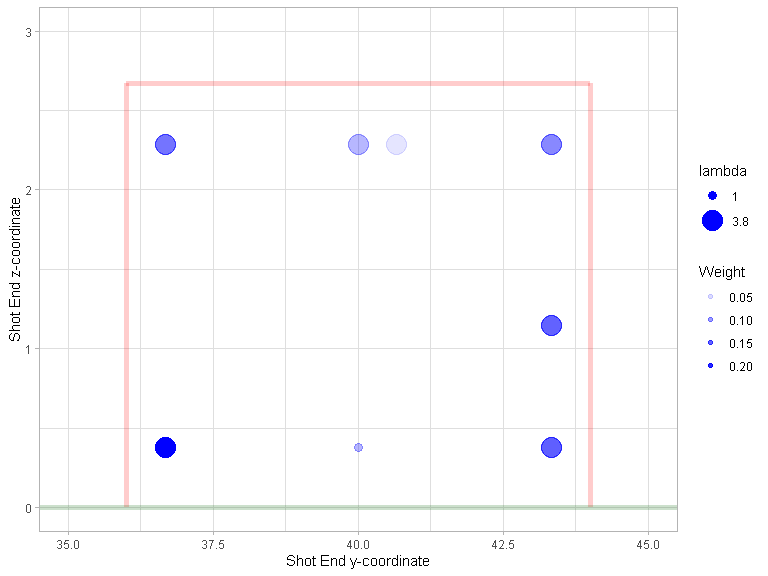
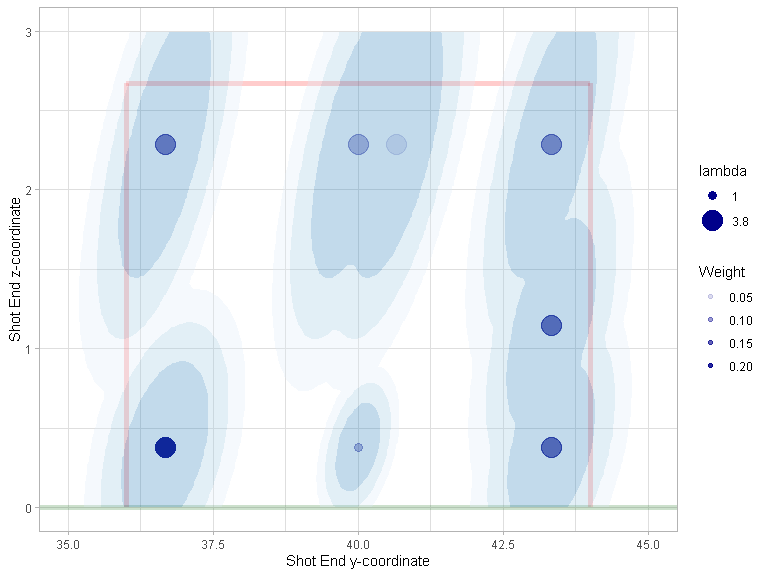
Clean up figure 3

diff --git a/reproduction/miss_it_like_messi.md b/reproduction/miss_it_like_messi.md
@@ -291,6 +291,23 @@ Hunter_et_al_2018_shots |>
 ``` r
 mixture_model_components <- get_mixture_model_components()
 
+yy = seq(34, 46, length.out = 100)
+zz = seq(0, 4, length.out = 100)
+yz = expand.grid(y = yy, z = zz)
+
+# Get probability density for each shot/component
+pdfs <- get_shot_probability_densities(
+  mixture_model_components[selected_components,],
+  as.matrix(yz)
+)
+
+# Normalize each column to put components on equal footing
+pdfs <- apply(pdfs, 2, function(x) {x / max(x)})
+
+mixture_model_pdfs <- yz |>
+  dplyr::mutate(pdf = apply(pdfs, 1, max)) |>
+  tibble::tibble()
+
 mixture_model_components[selected_components,] |>
   dplyr::mutate(
     y = purrr::map_dbl(mean, ~.[[1]]),
@@ -300,8 +317,11 @@ mixture_model_components[selected_components,] |>
   ) |>
   dplyr::filter(weight > 0.012) |>
   dplyr::rename(Weight = weight) |>
-  ggplot2::ggplot(ggplot2::aes(x = y, y = z, alpha = Weight, size = lambda)) +
-  ggplot2::geom_point(colour = "blue") +
+  ggplot2::ggplot() +
+  ggplot2::geom_point(
+    mapping = ggplot2::aes(x = y, y = z, alpha = Weight, size = lambda),
+    colour = "darkblue"
+  ) +
   ggplot2::scale_size_manual(values = c(3, 7)) +
   plot_goalposts(color = "red", cex = 2, alpha = 0.2) +
   plot_grass(color = "darkgreen", cex = 2, alpha = 0.2) +
@@ -311,7 +331,19 @@ mixture_model_components[selected_components,] |>
   ggplot2::labs(
     x = "Shot End y-coordinate",
     y = "Shot End z-coordinate"
-  )
+  ) +
+  # Add contour plot of Gaussians
+  ggplot2::geom_contour_filled(
+    data = mixture_model_pdfs,
+    mapping = ggplot2::aes(x = y, y = z, z = pdf),
+    bins = 9,
+    alpha = 0.3,
+    breaks = seq(0.7, 1, by = 0.1),
+    show.legend = FALSE
+  ) +
+  # Make Gaussian contours coloured blue
+  ggplot2::scale_fill_brewer()
+#> Warning: Removed 3850 rows containing non-finite values (stat_contour_filled).
 ```
 
 ![](miss_it_like_messi_files/figure-gfm/figure_3-1.png)<!-- -->
@@ -377,7 +409,6 @@ stability_data |>
   dplyr::filter(n_a + n_b >= 30) |>
   # Get metrics only
   dplyr::select(
-    dplyr::starts_with("goal_pct"),
     dplyr::starts_with("gax"),
     dplyr::starts_with("ega"),
     dplyr::matches("_xg")
@@ -394,30 +425,33 @@ stability_data |>
   knitr::kable()
 ```
 
-|               | goal_pct_b |     gax_b |     ega_b | rb_post_xg_b | gen_post_xg_b |
-|:--------------|-----------:|----------:|----------:|-------------:|--------------:|
-| goal_pct_a    |  0.0997650 | 0.0816178 | 0.0989308 |    0.0464313 |     0.0480479 |
-| gax_a         |  0.1056930 | 0.0925974 | 0.0841096 |    0.0421375 |     0.0455160 |
-| ega_a         |  0.0870435 | 0.0655735 | 0.0874220 |   -0.0586405 |    -0.0843918 |
-| rb_post_xg_a  |  0.0966451 | 0.0866264 | 0.0034200 |    0.0265307 |     0.0928450 |
-| gen_post_xg_a |  0.1484362 | 0.1314014 | 0.1204237 |    0.0630395 |     0.1057084 |
+|               |     gax_b |     ega_b | rb_post_xg_b | gen_post_xg_b |
+|:--------------|----------:|----------:|-------------:|--------------:|
+| gax_a         | 0.0925974 | 0.0841096 |    0.0421375 |     0.0455160 |
+| ega_a         | 0.0655735 | 0.0874220 |   -0.0586405 |    -0.0843918 |
+| rb_post_xg_a  | 0.0866264 | 0.0034200 |    0.0265307 |     0.0928450 |
+| gen_post_xg_a | 0.1314014 | 0.1204237 |    0.0630395 |     0.1057084 |
 
 ``` r
 stability_data |>
-  dplyr::filter(n_a + n_b >= 50)
-#> # A tibble: 6 x 16
-#>   player  Season first~1 rb_po~2 gen_p~3 goal_~4    gax_a    ega_a   n_a first~5
-#>   <fct>    <int> <lgl>     <dbl>   <dbl>   <dbl>    <dbl>    <dbl> <int> <lgl>  
-#> 1 Aleksa~   2019 TRUE     0.0781  0.0788  0.0833  0.0516   0.0202     24 FALSE  
-#> 2 Hakim ~   2018 TRUE     0.0794  0.0805  0.167   0.138    0.0380     36 FALSE  
-#> 3 Miguel~   2018 TRUE     0.0806  0.0807  0.0357 -0.00796 -0.00909    28 FALSE  
-#> 4 Oussam~   2020 TRUE     0.0760  0.0745  0.0769  0.0457  -0.00103    26 FALSE  
-#> 5 Sebast~   2018 TRUE     0.0796  0.0801  0.04    0.00286  0.0414     25 FALSE  
-#> 6 Steven~   2020 TRUE     0.0750  0.0690  0.115   0.0819   0.0196     26 FALSE  
-#> # ... with 6 more variables: rb_post_xg_b <dbl>, gen_post_xg_b <dbl>,
-#> #   goal_pct_b <dbl>, gax_b <dbl>, ega_b <dbl>, n_b <int>, and abbreviated
-#> #   variable names 1: first_half_season_a, 2: rb_post_xg_a, 3: gen_post_xg_a,
-#> #   4: goal_pct_a, 5: first_half_season_b
+  dplyr::filter(n_a + n_b >= 5)
+#> # A tibble: 998 x 16
+#>    player  Season first~1 rb_po~2 gen_p~3 goal_~4   gax_a    ega_a   n_a first~5
+#>    <fct>    <int> <lgl>     <dbl>   <dbl>   <dbl>   <dbl>    <dbl> <int> <lgl>  
+#>  1 Aaron ~   2019 TRUE     0.0783  0.0811  0      -0.0400  0.0739      7 FALSE  
+#>  2 Aaron ~   2020 TRUE     0.0795  0.0869  0      -0.0381 -0.0181      7 FALSE  
+#>  3 Abdena~   2018 TRUE     0.0790  0.0831  0.0667  0.0297  0.0536     15 FALSE  
+#>  4 Abdena~   2020 TRUE     0.0792  0.0916  0      -0.0195 -0.00149     5 FALSE  
+#>  5 Abdoul~   2019 TRUE     0.0802  0.0911  0.2     0.173   0.0733      5 FALSE  
+#>  6 Abdoul~   2019 TRUE     0.0733  0.0677  0      -0.0318  0.0228     11 FALSE  
+#>  7 Abdoul~   2020 TRUE     0.0775  0.0776  0.111   0.0806  0.0155     18 FALSE  
+#>  8 Abouba~   2018 TRUE     0.0787  0.0818  0      -0.0458 -0.0286      6 FALSE  
+#>  9 Adam B~   2020 TRUE     0.0777  0.0719  0      -0.0344  0.0221      6 FALSE  
+#> 10 Adam M~   2019 TRUE     0.0776  0.0792  0      -0.0303 -0.0132      7 FALSE  
+#> # ... with 988 more rows, 6 more variables: rb_post_xg_b <dbl>,
+#> #   gen_post_xg_b <dbl>, goal_pct_b <dbl>, gax_b <dbl>, ega_b <dbl>, n_b <int>,
+#> #   and abbreviated variable names 1: first_half_season_a, 2: rb_post_xg_a,
+#> #   3: gen_post_xg_a, 4: goal_pct_a, 5: first_half_season_b
 ```
 
 ## Figure 6
@@ -436,10 +470,26 @@ expand.grid(threshold = 6:60, metric = c("gax", "ega", "rb_post_xg", "gen_post_x
   dplyr::mutate(
     stability = purrr::map2_dbl(threshold, metric, ~ get_stability_above_threshold(.y, .x))
   ) |>
-  ggplot2::ggplot(ggplot2::aes(x = threshold, y= stability, colour = metric)) +
+  dplyr::mutate(
+    metric = dplyr::case_when(
+      metric == "gax" ~ "GAX",
+      metric == "ega" ~ "EGA",
+      metric == "rb_post_xg" ~ "RBPostXg",
+      metric == "gen_post_xg" ~ "GenPostXg"
+    )
+  ) |>
+  dplyr::rename(
+    Metric = metric
+  ) |>
+  dplyr::filter(threshold <= 50) |>
+  ggplot2::ggplot(ggplot2::aes(x = threshold, y= stability, colour = Metric)) +
   ggplot2::geom_line() +
-  ggplot2::theme_light()
-#> Warning: Removed 8 row(s) containing missing values (geom_path).
+  ggplot2::theme_light() +
+  ggplot2::labs(
+    x = "Minimum Sample Size",
+    y = "Correlation"
+  ) +
+  ggplot2::theme(legend.position = c(0.1, 0.85))
 ```
 
 ![](miss_it_like_messi_files/figure-gfm/figure_6-1.png)<!-- -->
